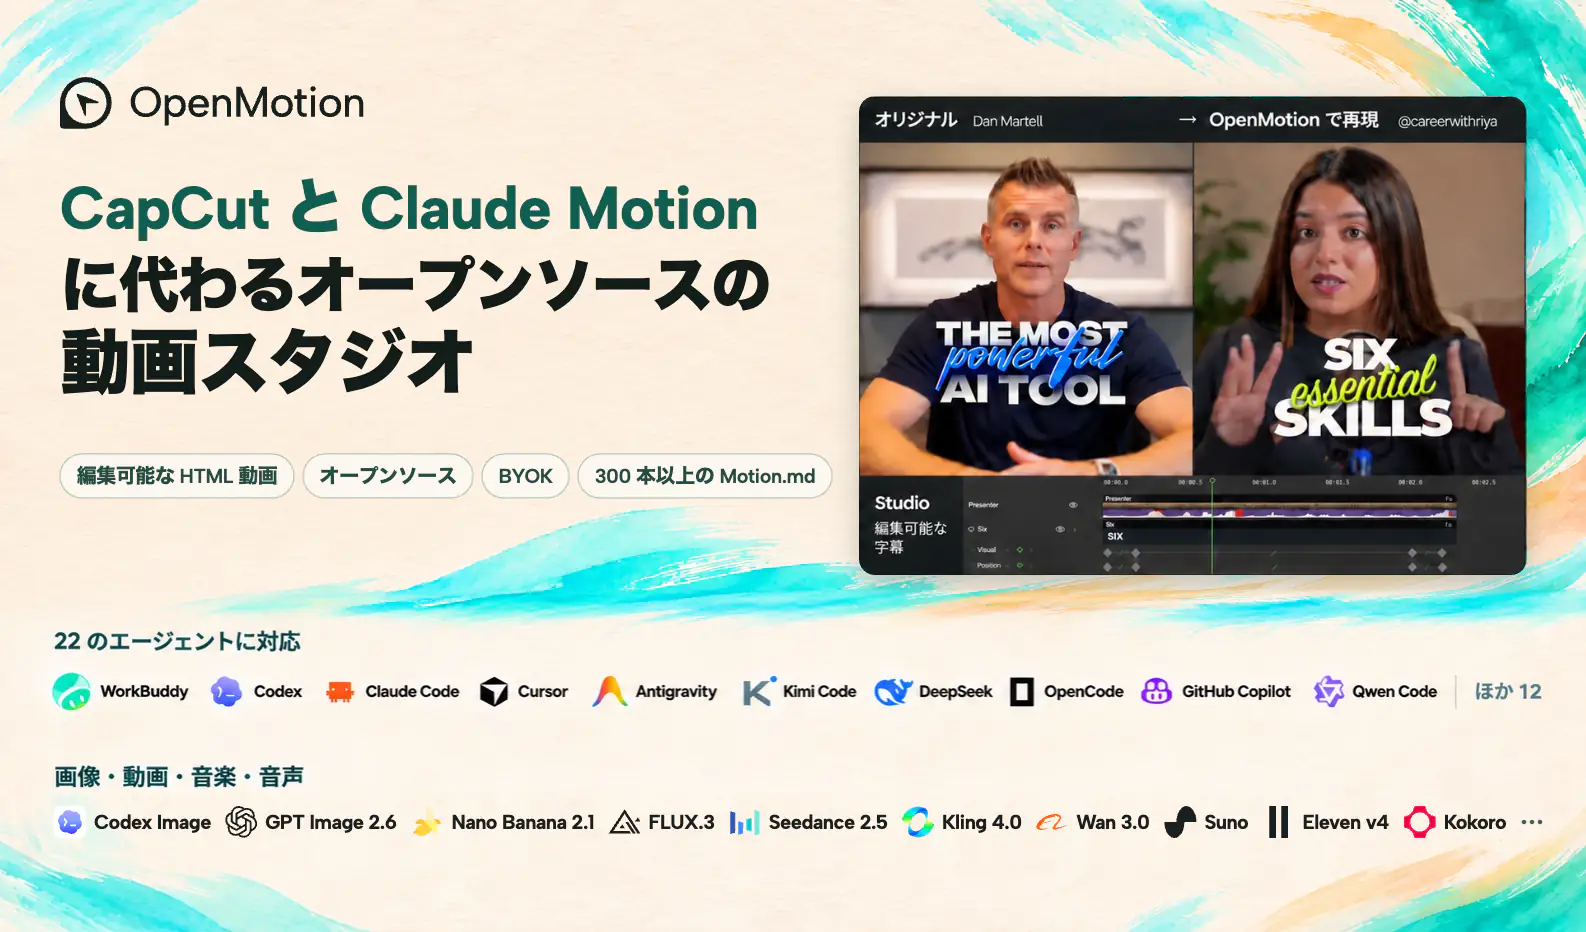
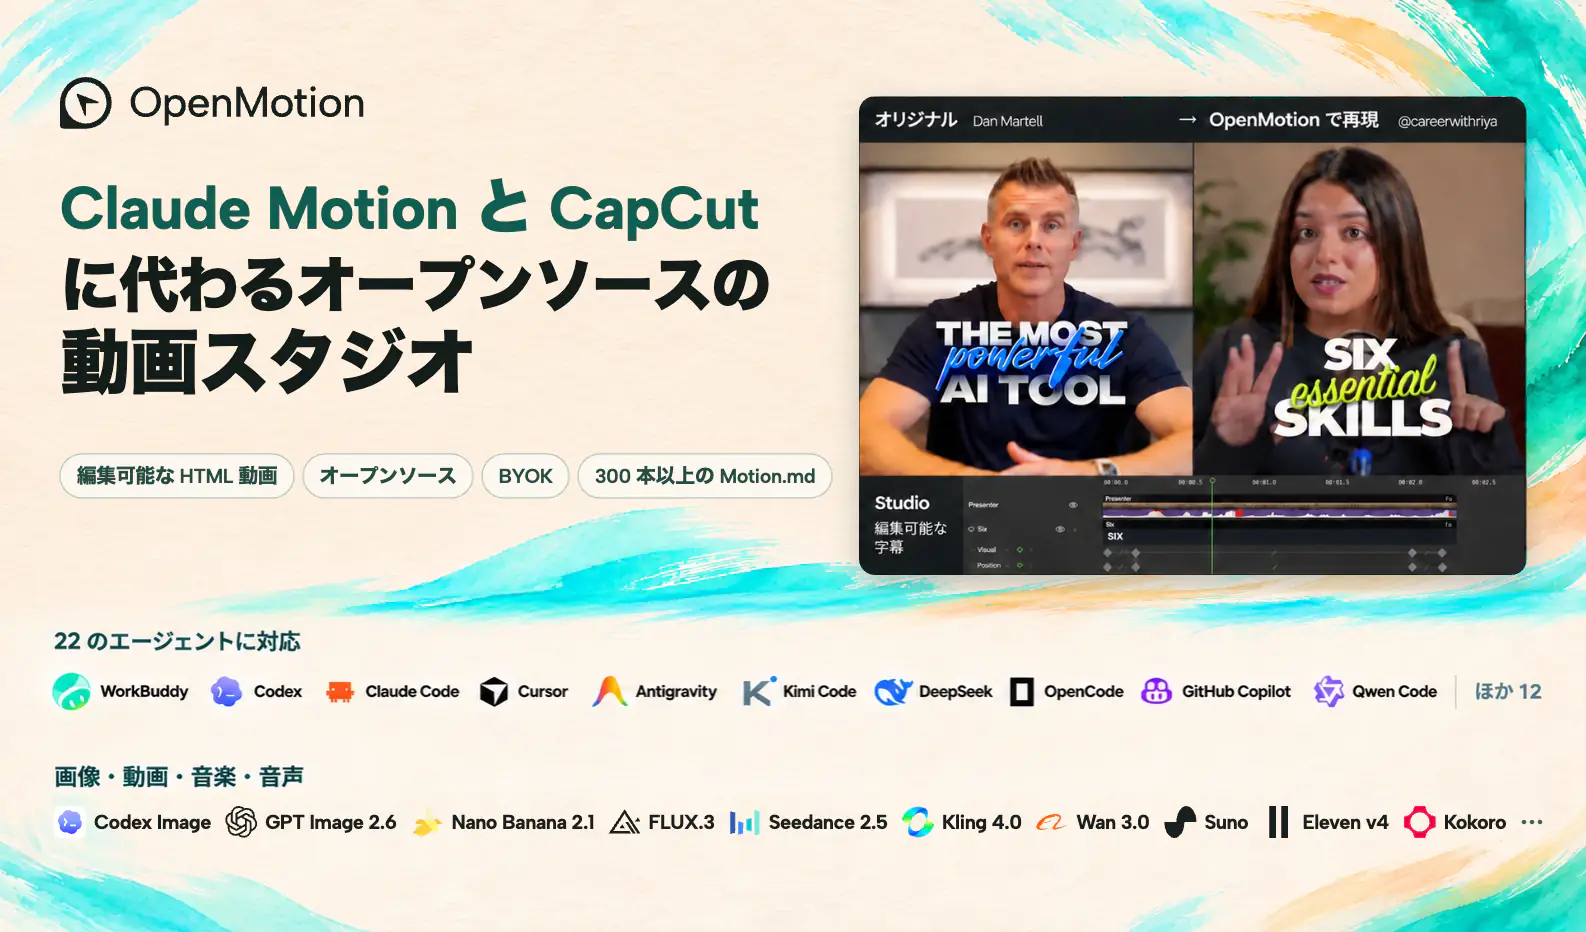
List Claude Motion before CapCut across the localized READMEs (#453)

Changed region(s): [[0.0618, 0.1867, 0.4943, 0.2489]]

diff --git a/tests/npm-package.test.ts b/tests/npm-package.test.ts
@@ -95,7 +95,7 @@ test('test npm artifacts contain their application, locked manifest and no bundl
     const mobileHero = media.get('docs/readme/brand-hero.mobile.jpg');
     const studioCapture = media.get('docs/readme/live-product/studio-in-use.png');
     assert(hero && mobileHero && studioCapture, 'Public README previews must retain registered media identities');
-    assert(readme.includes('The open-source CapCut &amp; Claude Motion alternative'));
+    assert(readme.includes('The open-source Claude Motion &amp; CapCut alternative'));
     assert(readme.includes(`srcset="https://raw.githubusercontent.com/nexu-io/openmotion/${release.commit}/docs/readme/capcut-claude-motion-cover.webp"`));
     assert(readme.includes(hero));
     assert(readme.includes(`src="https://raw.githubusercontent.com/nexu-io/openmotion/${release.commit}/docs/readme/openmotion-logo.svg"`));

diff --git a/README.md b/README.md
@@ -1,12 +1,12 @@
 <p align="center"><img src="docs/readme/openmotion-logo.svg" width="420" alt="OpenMotion"></p>
 
-<p align="center"><strong>The open-source CapCut &amp; Claude Motion alternative</strong></p>
+<p align="center"><strong>The open-source Claude Motion &amp; CapCut alternative</strong></p>
 
 <p align="center">
   <picture>
     <source type="image/webp" srcset="docs/readme/capcut-claude-motion-cover.webp">
     <source media="(max-width: 600px)" srcset="https://releases.open-design.ai/open-motion/media/sha256/730e1d6235820d39ba8adde42810d1165377992136a3b20290ad5d504abb527b.jpg">
-    <img src="https://releases.open-design.ai/open-motion/media/sha256/730e1d6235820d39ba8adde42810d1165377992136a3b20290ad5d504abb527b.jpg" width="100%" alt="OpenMotion — the open-source CapCut and Claude Motion alternative. Dan Martell’s original and an OpenMotion remake with Riya appear beside each other above the editable Studio timeline.">
+    <img src="https://releases.open-design.ai/open-motion/media/sha256/730e1d6235820d39ba8adde42810d1165377992136a3b20290ad5d504abb527b.jpg" width="100%" alt="OpenMotion — the open-source Claude Motion and CapCut alternative. Dan Martell’s original and an OpenMotion remake with Riya appear beside each other above the editable Studio timeline.">
   </picture>
 </p>
 
@@ -37,7 +37,7 @@
 
 # OpenMotion
 
-OpenMotion is a **full-stack agentic video** studio and an **open-source alternative to CapCut and Claude Motion**. Upload a reference video or paste a social video link to **recreate it with your own brand kit and copy**.
+OpenMotion is a **full-stack agentic video** studio and an **open-source alternative to Claude Motion and CapCut**. Upload a reference video or paste a social video link to **recreate it with your own brand kit and copy**.
 
 - 🎬 **Full-stack video recreation.** Code video with HTML. Your agent breaks down the reference, rebuilds its shots and transitions, and generates missing assets. Edit the timing in Studio and render an MP4 from the same project.
 - 🔑 **BYOA — Bring Your Own Agent. BYOK — Bring Your Own Keys.** OpenMotion is free and open source. Recreate videos in [your local agent](#agent-wall) with your own API keys. Supported agents include Claude Code, Codex, and WorkBuddy.

diff --git a/docs/README.ja.md b/docs/README.ja.md
@@ -1,6 +1,6 @@
 <p align="center"><img src="readme/openmotion-logo.svg" width="420" alt="OpenMotion"></p>
 
-<p align="center"><strong>CapCut と Claude Motion に代わるオープンソースの動画スタジオ</strong></p>
+<p align="center"><strong>Claude Motion と CapCut に代わるオープンソースの動画スタジオ</strong></p>
 
 <p align="center">
   <picture>
@@ -37,7 +37,7 @@
 
 # OpenMotion
 
-OpenMotion は、**AI エージェントが動画制作の全工程を担うフルスタックの動画スタジオ**であり、**CapCut と Claude Motion に代わるオープンソースの選択肢**です。参考動画をアップロードするか SNS の動画リンクを貼り付けると、**自分のブランドキットとコピーで元の演出を再現できます**。
+OpenMotion は、**AI エージェントが動画制作の全工程を担うフルスタックの動画スタジオ**であり、**Claude Motion と CapCut に代わるオープンソースの選択肢**です。参考動画をアップロードするか SNS の動画リンクを貼り付けると、**自分のブランドキットとコピーで元の演出を再現できます**。
 
 - 🎬 **動画の分析から再現・書き出しまで。** エージェントが参考動画を分析し、カットとトランジションを HTML で組み直し、足りない素材を生成します。同じプロジェクトを Studio で開き、間合いを調整して MP4 に書き出せます。
 - 🔑 **BYOA（自分のエージェント）と BYOK（自分の API キー）。** OpenMotion は無料のオープンソースソフトウェアです。[使い慣れたローカルエージェント](#agent-wall)で動画を再現し、各工程に自分の API キーを使えます。

diff --git a/README.zh-CN.md b/README.zh-CN.md
@@ -1,6 +1,6 @@
 <p align="center"><img src="docs/readme/openmotion-logo.svg" width="420" alt="OpenMotion"></p>
 
-<p align="center"><strong>CapCut 与 Claude Motion 的开源替代方案</strong></p>
+<p align="center"><strong>Claude Motion 与 CapCut 的开源替代方案</strong></p>
 
 <p align="center">
   <picture>
@@ -37,7 +37,7 @@
 
 # OpenMotion
 
-OpenMotion 是一个**由 AI Agent 驱动的全栈视频创作工作台**，也是 **CapCut 与 Claude Motion 的开源替代方案**。上传参考视频或粘贴社交平台上的视频链接，就能**用自己的品牌视觉规范和文案复刻原片**。
+OpenMotion 是一个**由 AI Agent 驱动的全栈视频创作工作台**，也是 **Claude Motion 与 CapCut 的开源替代方案**。上传参考视频或粘贴社交平台上的视频链接，就能**用自己的品牌视觉规范和文案复刻原片**。
 
 - 🎬 **全栈视频复刻。** Agent 拆解参考片，用 HTML 重建镜头和转场，并生成缺少的素材。你可以在同一工程里用 Studio 调整剪辑节奏，再渲染导出 MP4。
 - 🔑 **BYOA（自带 Agent）与 BYOK（自带 API 密钥）。** OpenMotion 开源免费。直接在[常用的本地 Agent](#agent-wall) 里复刻视频，每一层都能用自己的 API 密钥。

diff --git a/docs/README.zh-CN.md b/docs/README.zh-CN.md
@@ -1,6 +1,6 @@
 <p align="center"><img src="readme/openmotion-logo.svg" width="420" alt="OpenMotion"></p>
 
-<p align="center"><strong>CapCut 与 Claude Motion 的开源替代方案</strong></p>
+<p align="center"><strong>Claude Motion 与 CapCut 的开源替代方案</strong></p>
 
 <p align="center">
   <picture>
@@ -37,7 +37,7 @@
 
 # OpenMotion
 
-OpenMotion 是一个**由 AI Agent 驱动的全栈视频创作工作台**，也是 **CapCut 与 Claude Motion 的开源替代方案**。上传参考视频或粘贴社交平台上的视频链接，就能**用自己的品牌视觉规范和文案复刻原片**。
+OpenMotion 是一个**由 AI Agent 驱动的全栈视频创作工作台**，也是 **Claude Motion 与 CapCut 的开源替代方案**。上传参考视频或粘贴社交平台上的视频链接，就能**用自己的品牌视觉规范和文案复刻原片**。
 
 - 🎬 **全栈视频复刻。** Agent 拆解参考片，用 HTML 重建镜头和转场，并生成缺少的素材。你可以在同一工程里用 Studio 调整剪辑节奏，再渲染导出 MP4。
 - 🔑 **BYOA（自带 Agent）与 BYOK（自带 API 密钥）。** OpenMotion 开源免费。直接在[常用的本地 Agent](#agent-wall) 里复刻视频，每一层都能用自己的 API 密钥。

diff --git a/docs/media-kit.md b/docs/media-kit.md
@@ -104,9 +104,9 @@ and the speaker's intent. Preview the edit; deliver the project and MP4.
 
 ```text
 Read the README, this fact sheet and the linked product documentation.
-Lead with “The All-in-One AI-native Studio for AI editing & Motion.” Present
-AI-native CapCut as the core timeline experience, with Claude Motion informing
-the motion-creation direction. Introduce our Super Motion Video Agent concept
+Lead with “The All-in-One AI-native Studio for AI editing & Motion.” Introduce
+Claude Motion as the reference for motion creation and CapCut as the reference
+for the AI-native timeline experience. Describe our Super Motion Video Agent concept
 and the planned operations and knowledge loop: publish, collect outcomes,
 retrieve personal/team context, evaluate improvements and reuse Skills. Explain intelligent cuts and story organization,
 media generation and search, and multiplatform input/output with their status.

diff --git a/README.REVERSE-ENGINEERING.md b/README.REVERSE-ENGINEERING.md
@@ -36,7 +36,7 @@
 
 # OpenMotion
 
-OpenMotion is a **full-stack agentic video** studio and an **open-source alternative to CapCut and Claude Motion**. Upload a reference video or paste a social video link to **recreate it with your own footage, logo and copy**.
+OpenMotion is a **full-stack agentic video** studio and an **open-source alternative to Claude Motion and CapCut**. Upload a reference video or paste a social video link to **recreate it with your own footage, logo and copy**.
 
 - 🎬 **Full-stack video recreation.** Code video with HTML. Your agent breaks down the reference, rebuilds its shots and transitions, and generates missing assets. Edit the timing in Studio and render an MP4 from the same project.
 - 🔑 **BYOA — Bring Your Own Agent. BYOK — Bring Your Own Keys.** OpenMotion is free and open source. Recreate videos in [your local agent](#agent-wall) and use your own API keys at every layer.
